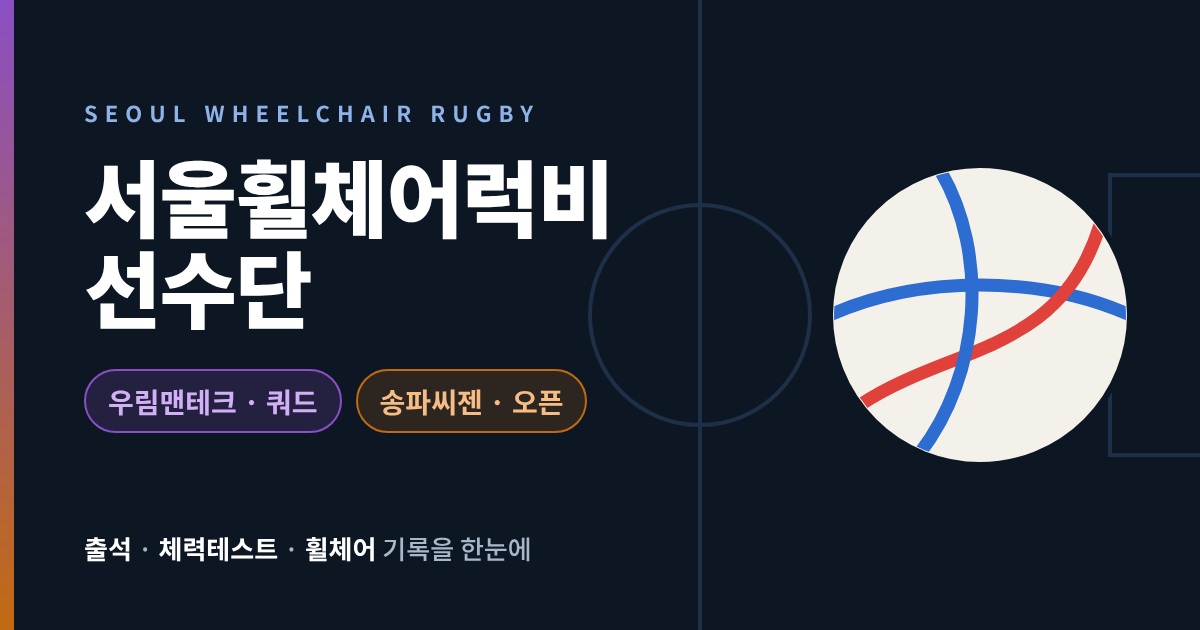
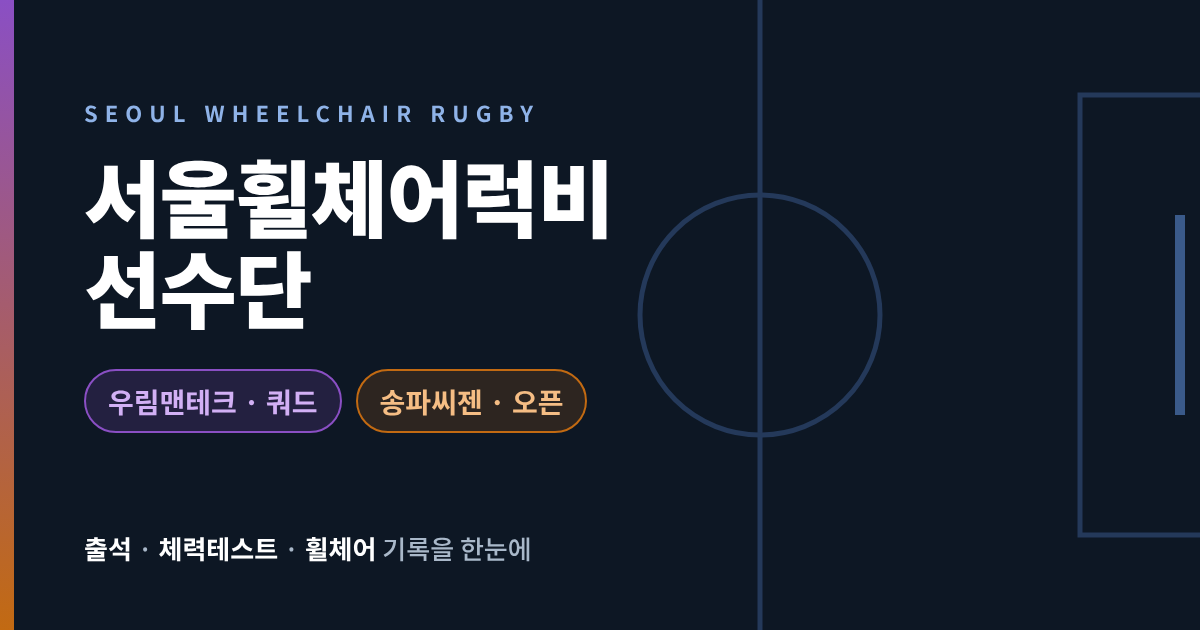
미리보기 설명 줄이고 대표 이미지 공 그림 빼기
Claude-Session: https://claude.ai/code/session_01NHxTobhRuZ4X4PoiaYBvmm

Changed region(s): [[0.4933, 0.0, 1.0, 1.0]]

diff --git a/index.html b/index.html
@@ -1,4 +1,4 @@
-<!doctype html><html lang="ko"><head><meta charset="utf-8"><meta name="viewport" content="width=device-width,initial-scale=1"><meta name="robots" content="noindex,nofollow"><title>서울휠체어럭비 선수단</title><meta name="description" content="우림맨테크(쿼드) · 송파씨젠(오픈) 출석·체력테스트·휠체어 기록 | 2026.10.25 기준"><meta property="og:type" content="website"><meta property="og:site_name" content="서울휠체어럭비"><meta property="og:title" content="서울휠체어럭비 선수단"><meta property="og:description" content="우림맨테크(쿼드) · 송파씨젠(오픈) 출석·체력테스트·휠체어 기록 | 2026.10.25 기준"><meta property="og:url" content="https://phins1dr.github.io/seoul-wr-squad/"><meta property="og:image" content="https://phins1dr.github.io/seoul-wr-squad/og.png?v=20261025"><meta property="og:image:width" content="1200"><meta property="og:image:height" content="630"><meta name="twitter:card" content="summary_large_image"><meta name="theme-color" content="#0d1724"></head><body><script>
+<!doctype html><html lang="ko"><head><meta charset="utf-8"><meta name="viewport" content="width=device-width,initial-scale=1"><meta name="robots" content="noindex,nofollow"><title>서울휠체어럭비 선수단</title><meta name="description" content="우림맨테크(쿼드), 송파씨젠(오픈)"><meta property="og:type" content="website"><meta property="og:site_name" content="서울휠체어럭비"><meta property="og:title" content="서울휠체어럭비 선수단"><meta property="og:description" content="우림맨테크(쿼드), 송파씨젠(오픈)"><meta property="og:url" content="https://phins1dr.github.io/seoul-wr-squad/"><meta property="og:image" content="https://phins1dr.github.io/seoul-wr-squad/og.png?v=a65e4500"><meta property="og:image:width" content="1200"><meta property="og:image:height" content="630"><meta name="twitter:card" content="summary_large_image"><meta name="theme-color" content="#0d1724"></head><body><script>
 /* 공유용 화면: 저장소 대신 snapshot.json 을 읽어요. 수정 불가, 개인정보 없음 */
 (function(){
   let snapP = null;

diff --git a/og/og.html b/og/og.html
@@ -14,20 +14,13 @@ h1{font-size:84px;font-weight:900;line-height:1.08;margin-top:22px;letter-spacin
 .bar{position:absolute;left:0;top:0;bottom:0;width:14px;background:linear-gradient(#8a4fc4,#c26a12)}
 </style></head><body>
 <svg class="court" viewBox="0 0 1200 630" width="1200" height="630">
-  <g fill="none" stroke="#1e3048" stroke-width="4">
-    <rect x="700" y="-40" width="560" height="710"/>
-    <path d="M1260 175 h-150 v280 h150"/>
-    <circle cx="700" cy="315" r="110"/>
+  <g fill="none" stroke="#24395a" stroke-width="5">
+    <line x1="760" y1="-10" x2="760" y2="640"/>
+    <circle cx="760" cy="315" r="120"/>
+    <path d="M1210 95 H1080 V535 H1210"/>
+    <line x1="1180" y1="215" x2="1180" y2="415" stroke="#3a5a8a" stroke-width="10"/>
   </g>
-  <defs><clipPath id="b"><circle r="146"/></clipPath></defs><g transform="translate(980 315)">
-    <circle r="150" fill="#f4f1ea"/>
-    <g fill="none" stroke="#2d6cd0" stroke-width="13" clip-path="url(#b)">
-      <path d="M-150 0 C-60 -40 60 -40 150 0"/>
-      <path d="M-120 90 C-30 30 80 40 120 -90" stroke="#e0423b"/>
-      <path d="M-40 -145 C10 -60 0 60 -60 138"/>
-    </g>
-    <circle r="150" fill="none" stroke="#0d1724" stroke-width="6"/>
-  </g>
+  
 </svg>
 <div class="bar"></div>
 <div class="wrap">

diff --git a/tools/build_snapshot.py b/tools/build_snapshot.py
@@ -95,13 +95,16 @@ if PAGES:
     html = html.replace('/_blob/', 'img/')
     # 카톡·문자 링크 미리보기 (og.png 는 저장소 맨 위에 있어요)
     SITE = 'https://phins1dr.github.io/seoul-wr-squad/'
-    desc = '우림맨테크(쿼드) · 송파씨젠(오픈) 출석·체력테스트·휠체어 기록 | ' + asof.replace('-', '.') + ' 기준'
+    import hashlib
+    ogf = os.path.join(out, 'og.png')
+    OGV = hashlib.md5(open(ogf, 'rb').read()).hexdigest()[:8] if os.path.exists(ogf) else asof.replace('-', '')
+    desc = '우림맨테크(쿼드), 송파씨젠(오픈)'
     OG = ('<title>서울휠체어럭비 선수단</title><meta name="description" content="%s">'
           '<meta property="og:type" content="website"><meta property="og:site_name" content="서울휠체어럭비">'
           '<meta property="og:title" content="서울휠체어럭비 선수단"><meta property="og:description" content="%s">'
           '<meta property="og:url" content="%s"><meta property="og:image" content="%sog.png?v=%s">'
           '<meta property="og:image:width" content="1200"><meta property="og:image:height" content="630">'
-          '<meta name="twitter:card" content="summary_large_image"><meta name="theme-color" content="#0d1724">') % (desc, desc, SITE, SITE, asof.replace('-', ''))
+          '<meta name="twitter:card" content="summary_large_image"><meta name="theme-color" content="#0d1724">') % (desc, desc, SITE, SITE, OGV)
     html = html.replace('<title>선수단 공유용</title>', '', 1)
     html = '<!doctype html><html lang="ko"><head><meta charset="utf-8"><meta name="viewport" content="width=device-width,initial-scale=1"><meta name="robots" content="noindex,nofollow">' + OG + '</head><body>' + html + '</body></html>'
 open(os.path.join(out, 'index.html'), 'w', encoding='utf-8').write(html)
